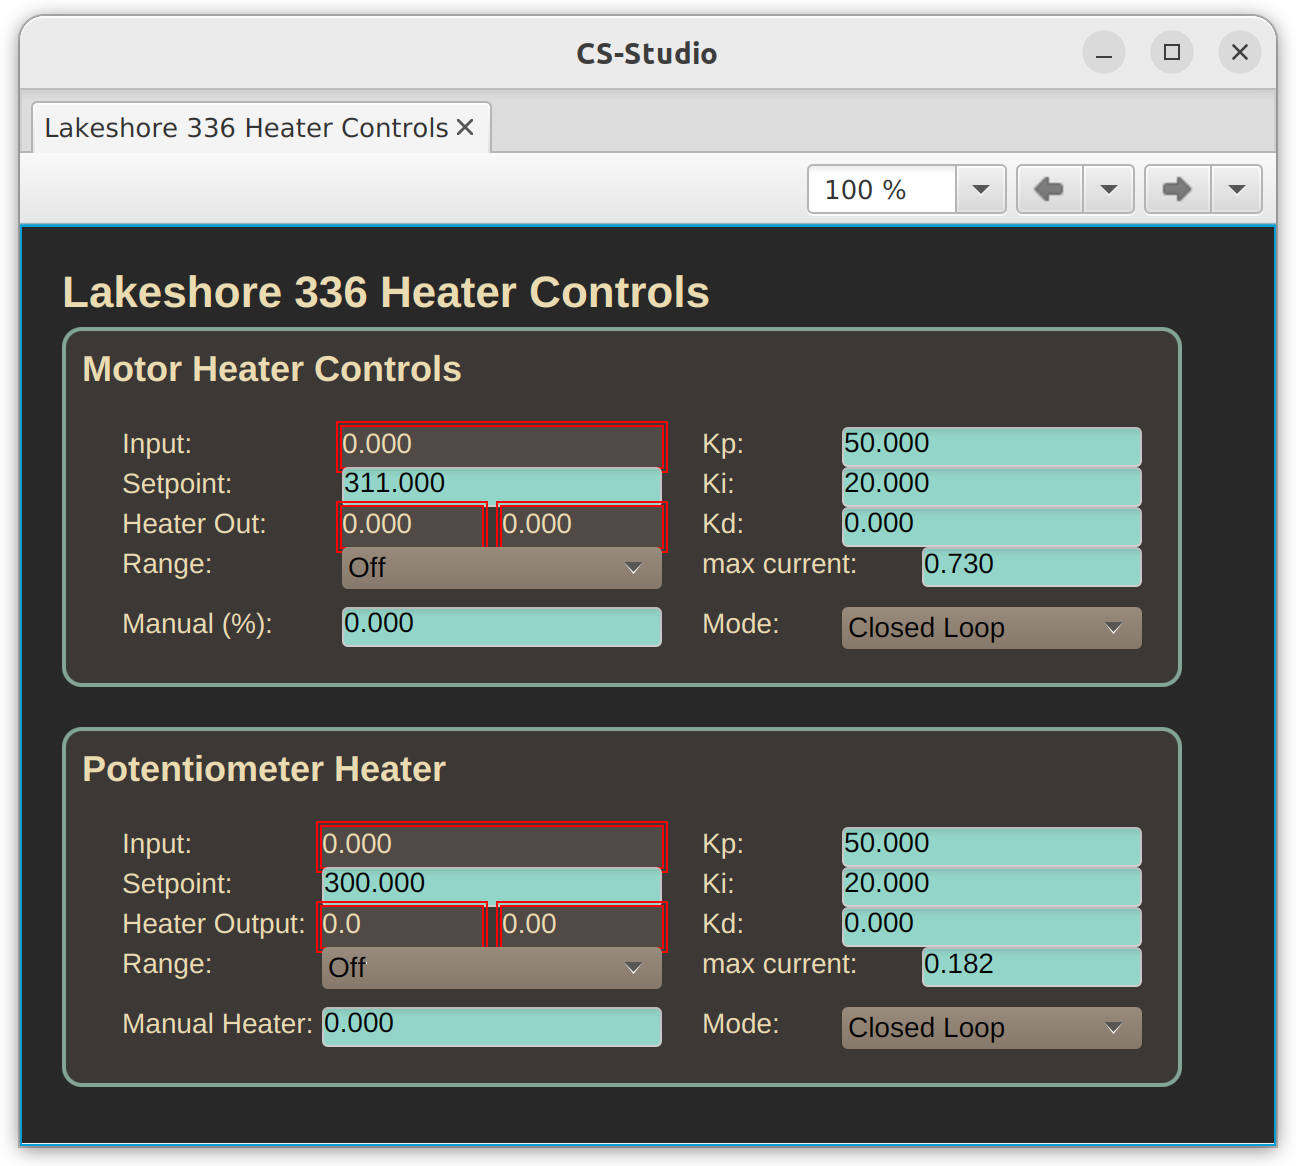
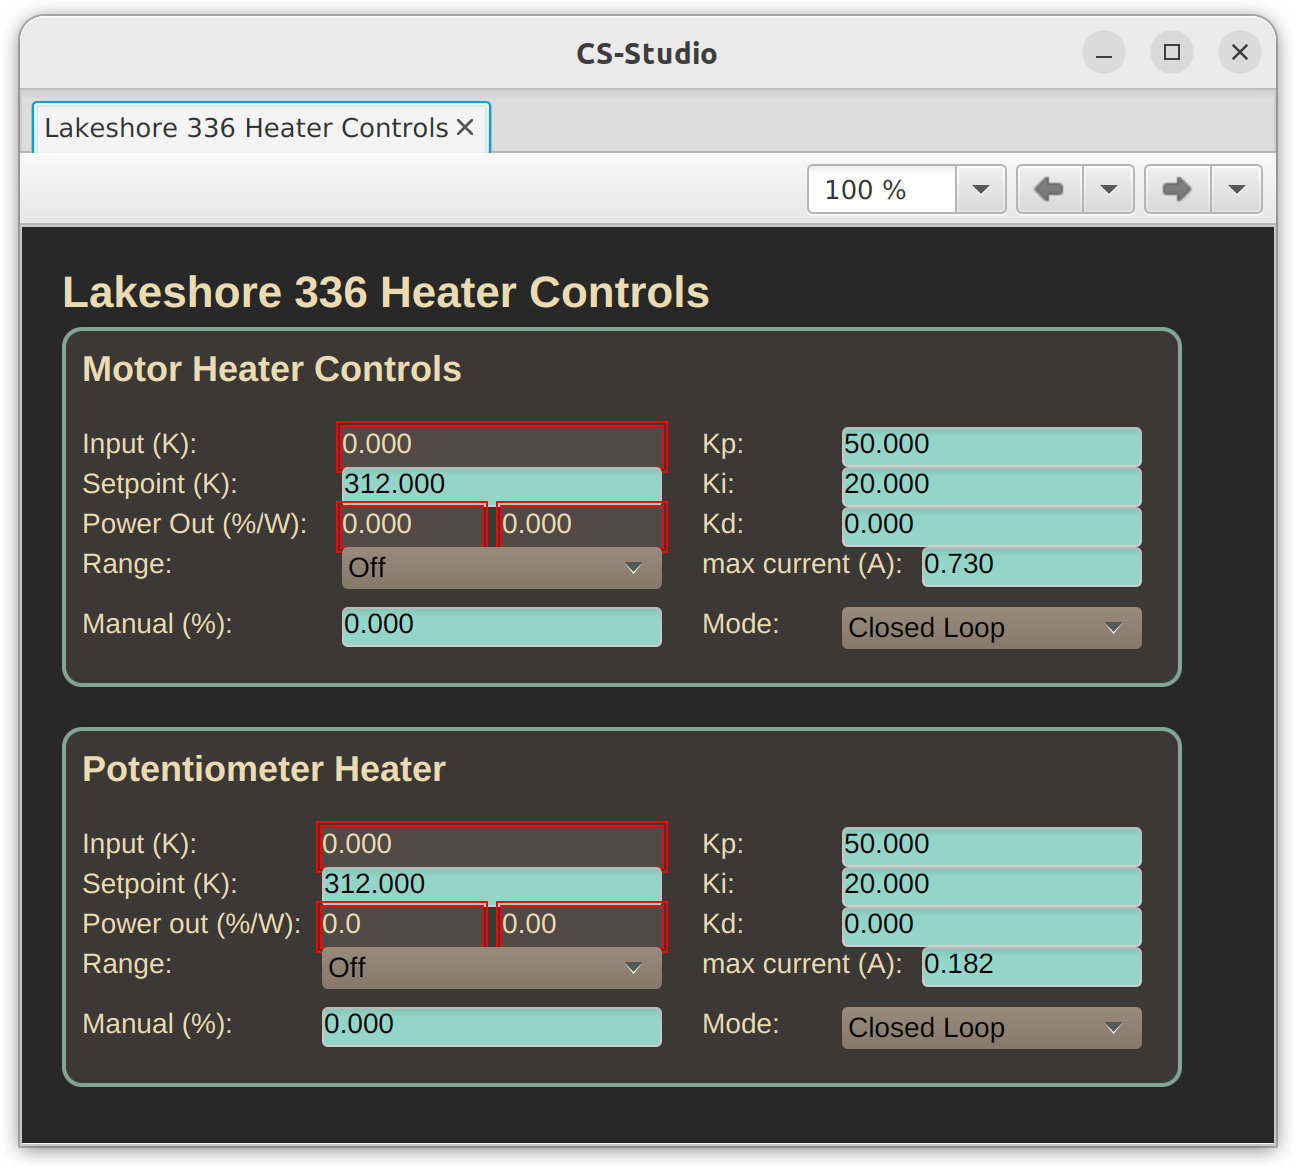
Documentation updated

diff --git a/PVs.md b/PVs.md
@@ -1,6 +1,6 @@
-# Process variables
+# Solid Target Movement
 
-This document list all process variables used for Jefferson Lab's hall B Solid Target movement system on Run Group E Double Target Experiment.
+This document list all process variables used for Jefferson Lab's hall B Solid Target movement system on Run Group E Double Target Experiment. An additional set of PVs is used for temperature control.
 
 Every PV has the prefix ``CCTVAL_DT_PMD301:``, so a PV complete name would look, for example, like this: ``CCTVAL_DT_PMD301:SHOULD-STOP``.
 
@@ -80,7 +80,7 @@ Every PV has the prefix ``CCTVAL_DT_PMD301:``, so a PV complete name would look,
 ## General information and controller status
 
 1. **PIEZOMOTOR-IOC-HEARTBEAT** :: Bool :: Value changed every second.
-1. **CENTERED** :: MBB :: What is centered. Possible values are `Wire`, `C`, `Al`, `Cu`, `Sn`, `Pb`, `Empty` and `Unknown`, corresponding to each target. Value is `Unknown` while moving.
+1. **CENTERED** :: Multi-bit binary :: What is centered. Possible values are `Wire`, `C`, `Al`, `Cu`, `Sn`, `Pb`, `Empty` and `Unknown`, corresponding to each target. Value is `Unknown` while moving.
 1. **PIEZOMOTOR-CONTROLLER-VERSION** :: String :: Obtained directly from PMD301 controller (details in its own manual)
 1. **PIEZOMOTOR-CONTROLLER-COMMUNICATION-ERROR** :: Bool :: Obtained directly from PMD301 controller (details in its own manual)
 1. **PIEZOMOTOR-CONTROLLER-ENCODER-ERROR** :: Bool :: Obtained directly from PMD301 controller (details in its own manual)
@@ -121,3 +121,32 @@ Every PV has the prefix ``CCTVAL_DT_PMD301:``, so a PV complete name would look,
 1. **REFERENCE-BACKWARD-LIMIT-SWITCH** :: Bool :: Analog encoder reading used for last calibration. Will be used for next calibration process.
 1. **REFERENCE-PIANO-LIMIT-SWITCH** :: Bool :: Piano encoder reading used for last calibration. Will be used for next calibration process.
 1. **REFERENCE-MOTOR-LIMIT-SWITCH** :: Bool :: Motor step count used for last calibration. Will be used for next calibration process.
+
+# Solid Target Temperature Control
+
+All temperature-related PVs are managed by a separate IOC on a different device that must be connected to the Lakeshore 336 Temperature Controller. All PVs in this IOC have the prefix ``RGE_CCTVAL_TEMP:``, so a PV complete name would look, for example, like this: ``RGE_CCTVAL_TEMP:Motor_TI``.
+
+1. **Motor_TI** :: Analog :: Kelvin temperature read at motor.
+1. **Motor_Range** :: Multi-bit binary :: How much of max current to actually use as max. Possible values are `Off`, `Low` (1%), `Med` (10%) and `High` (100%)
+1. **Motor_SP** :: Analog :: Temperature setpoint (in Kelvin). Temperature control will try to maintain this temperature in the motor.
+1. **Motor_Heater** :: Analog :: How much current is sent (in percentage of maximum)
+1. **Motor_Heater_W** :: Analog :: How much power in Watts is actually consumed by the heater. This is calculated using current output current and heater's resistance.
+1. **Motor_Out_W** :: Analog :: How much power in Watts is sent from Lakeshore controller.
+1. **Motor_Manual** :: Analog :: Percentage of current sent (manually set)
+1. **Motor_kP** :: Analog :: PID proportional constant
+1. **Motor_kI** :: Analog :: PID integrative constant
+1. **Motor_kD** :: Analog :: PID derivative constant
+1. **Motor_Mode** :: Multi-bit binary :: Control modes. Possible values are `Off`, `Closed Loop`, `Zone`, `Open Loop`
+1. **Motor_Max_Current** :: Analog :: Max current in Amperes that should be sent from Lakeshore temperature controller.
+1. **Potentiometer_TI** :: Analog :: Kelvin temperature read at potentiometer.
+1. **Potentiometer_Range** :: Multi-bit binary :: How much of max current to actually use as max. Possible values are `Off`, `Low` (1%), `Med` (10%) and `High` (100%)
+1. **Potentiometer_SP** :: Analog :: Temperature setpoint (in Kelvin). Temperature control will try to maintain this temperature in the potentiometer.
+1. **Potentiometer_Heater** :: Analog :: How much power is sent (in percentage of maximum)
+1. **Potentiometer_Heater_W** :: Analog :: How much power in Watts is actually consumed by the heater. This is calculated using current output current and heater's resistance.
+1. **Potentiometer_Out_W** :: Analog :: How much power in Watts is sent from Lakeshore controller.
+1. **Potentiometer_Manual** :: Analog :: Percentage of current sent (manually set)
+1. **Potentiometer_kP** :: Analog :: PID proportional constant
+1. **Potentiometer_kI** :: Analog :: PID integrative constant
+1. **Potentiometer_kD** :: Analog :: PID derivative constant
+1. **Potentiometer_Mode** :: Multi-bit binary :: Control modes. Possible values are `Off`, `Closed Loop`, `Zone`, `Open Loop`
+1. **Potentiometer_Max_Current** :: Analog :: Max current in Amperes that should be sent from Lakeshore temperature controller.

diff --git a/gui/docs.md b/gui/docs.md
@@ -1,6 +1,17 @@
-# Phoebus graphic interface
+# RG-E Solid target system graphical user interface
 
-The user interface is intended to be viewed through CS-Studio Phoebus v4.7. From the main screen ``double_target_main.bob``, the rest of the screens can be accesed.
+Read this if you want to know how to control the solid target system.
+
+## Introduction
+As you probably know, JLab's Hall B Run Group E experiment is a Double Target one. That means there is a cryogenic, liquid hydrogen target, and a second one, downstream, solid target. Solid target can be switched to different elements. Actually, there are seven possibilities: an empty target, lead, tin, copper, aluminum, carbon and an additional beam calibration target. The beam calibration target is an empty space crossed by two very thin cables, one at 90 degrees from the other. These seven targets are one next to each other in a copper ribbon which can be moved to put each of these at the center of the structure.
+
+The ribbon is attached to a PiezoMotor piezoelectric motor, which has a moving bar that can push and pull the ribbon. At the other side, the motor is attached to the "piano encoder" system, which has one millimeter pieces with alternate electrical charge, so we can count the steps while it is moving to know the current band position. At the other side of the band, there is a linear potentiometer used as analog encoder to double-check the band position.
+
+All of this is connected to an "electric box" with a Raspberry Pi, a motor controller and other stuff in the experimental hall B.
+
+The user interface is intended to be viewed through CS-Studio Phoebus v4.7. If you're reading this, you'll probably be using an older version of CS-Studio, so the screens will look uglier, but it should work the same way.
+
+From the main screen ``double_target_main.bob``, the rest of the screens can be accesed.
 
 ## Main screen
 
@@ -37,6 +48,8 @@ Each of them is linked to a section showing the current temperature (in Kelvin),
 ![working main screen](docs/temperature_expert_interface.png)
 
 This interface has one section for each part (motor / potentiometer), and each of them has the temperature reading (in Kelvin), the temperature setpoint (the minimum desired temperature we want to reach) (in Kelvin), the heater output power (both in percentage of the maximum configured to the Lakeshore temperature controller and in Watts), the three PID parameters (proportional, integrative and derivative), a "range" parameter to turn `off` the heater or use it at `low` (1%), `mid` (10%) or `high` (100%) power, and a max current parameter setting. There's also a manual output control, in heater power output percent, for open-loop control.
+
+Note that the heater output power in this screen is the power used by Lakeshore temperature controller. Part of it is wasted in the wires, and part of it actually reaches the heater. In the normal temperature interface you can see the power actually being used by the heater only.
 
 ## Expert interface
 
